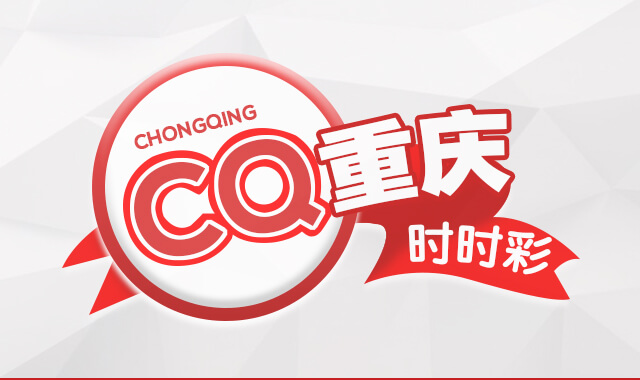
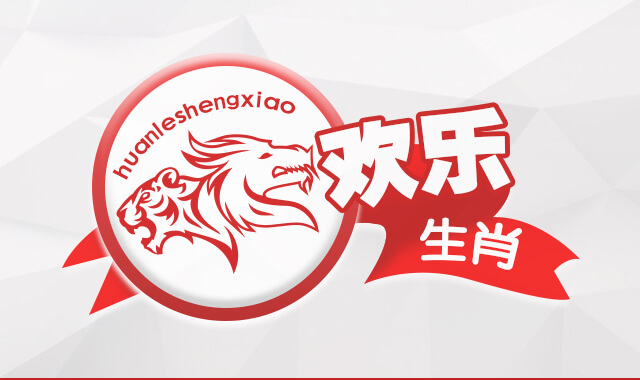
重庆时时彩改名

Changed region(s): [[0.1562, 0.2316, 0.8125, 0.7237], [0.625, 0.5789, 0.875, 0.7237]]

diff --git a/src/Components/Lottery/method.js b/src/Components/Lottery/method.js
@@ -1766,19 +1766,19 @@ const methodId = {
     3110756: '4XHDHD',
     3110760: '5XDT',
     3110761: '5XHDHD',
-    //重庆时时彩3星直选跨度
+    //欢乐生肖3星直选跨度
     3110676: '3XZXKD',
     3110678: '3XZXKD',
     3110677: '3XZXKD',
-    //重庆时时彩3星直选组合
+    //欢乐生肖3星直选组合
     3110683: '3XZXZH',
     3110687: '3XZXZH',
     3110685: '3XZXZH',
-    //重庆时时彩3星组选_组三跨度
+    //欢乐生肖3星组选_组三跨度
     3110700: '3XZXZSKD',
     3110701: '3XZXZSKD',
     3110702: '3XZXZSKD',
-    //重庆时时彩3星组选_组六跨度
+    //欢乐生肖3星组选_组六跨度
     3110710: '3XZXZLKD',
     3110711: '3XZXZLKD',
     3110712: '3XZXZLKD',
@@ -1790,7 +1790,7 @@ const methodId = {
     3110704: '3XHDHD',
     3110706: '3XHDHD',
     3110708: '3XHDHD',
-    //重庆时时彩3星组选_包胆
+    //欢乐生肖3星组选_包胆
     3110714: 'ZU3BD',
     3110713: 'ZU3BD',
     3110715: 'ZU3BD',
@@ -2388,7 +2388,7 @@ const methodId = {
     3113673: 'RXZU4FFC4',
     //日本 20180619 end
     
-    //重庆30秒
+    //欢乐生肖30秒
     3113947: 'ZX3',
     3113945: 'ZX3',
     3113996: 'ZX3',
@@ -2478,7 +2478,7 @@ const methodId = {
     3114152: 'RXZU6FFC4',
     //任选四-组选4
     3114157: 'RXZU4FFC4',
-    //重庆30秒 20180619 end
+    //欢乐生肖30秒 20180619 end
     
     //腾讯30秒
     3114189: 'ZX3',

diff --git a/src/Components/Tendency/Tendency.jsx b/src/Components/Tendency/Tendency.jsx
@@ -24,7 +24,7 @@ export default class Tendency extends Component {
             },
             loading: true,
             tableTrendTotal: [],                 //所有彩种对应包含的走势图类型
-            lotteryBigType: null,                  //每一个彩种对应的大彩种，例：重庆时时彩属于时时彩
+            lotteryBigType: null,                  //每一个彩种对应的大彩种，例：欢乐生肖属于时时彩
             responseData: null, /*请求返回的数据，作为属性传给走势图表格*/
             checked: true, /*控制折线的显示*/
             reversetable: false, /*控制是否上下转换表格，boolean*/

diff --git a/src/Components/Home/HomeMainLottery/HomeMainLottery.jsx b/src/Components/Home/HomeMainLottery/HomeMainLottery.jsx
@@ -24,7 +24,7 @@ export default class HomeMainLottery extends Component {
     };
     render() {
         const dataArray = [
-            { img: home_lottery01, action: '立即游戏', nav: 'ssc', cnname: '重庆时时彩' },
+            { img: home_lottery01, action: '立即游戏', nav: 'ssc', cnname: '欢乐生肖' },
             { img: home_lottery02, action: '立即游戏', nav: 'pk10', cnname: '北京pk10' },
             { img: home_lottery03, action: '立即游戏', nav: 'mmc', cnname: '泰国秒秒彩' },
         ];

diff --git a/src/Components/Lottery/ContentMain/ContentMian.jsx b/src/Components/Lottery/ContentMain/ContentMian.jsx
@@ -1782,7 +1782,7 @@ export default class ContentMian extends Component {
             lt_trace_times_same: 1,
             lt_trace_diff: 1,
             lt_trace_times_diff: 2,
-            lt_trace_count_input: 10,
+            // lt_trace_count_input: 10,
             lt_trace_money: 0,
             lt_trace_count_input: this.state.multipleMmcValue,//mmc连续输入次数
             isPrizeStop: this.state.isPrizeStop,//mmc中奖追停

diff --git a/src/State/Index.jsx b/src/State/Index.jsx
@@ -54,7 +54,7 @@ class State {
         'cuimId': '',
         defaultMethodId: 0,
         lotteryBetId: 1,
-        cnname: '重庆时时彩',
+        cnname: '欢乐生肖',
         lotteryLength: 5,
         imgUrl: 'cqssc'
     };
